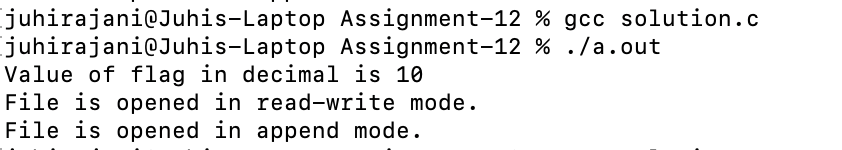
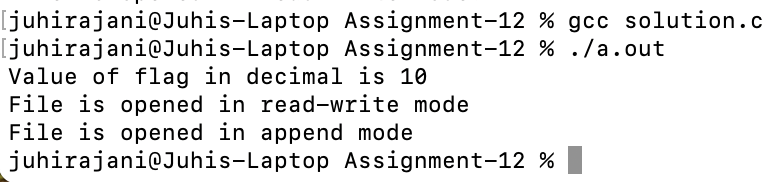
Finding file opening mode using fcntl

diff --git a/Assignment-12/solution.c b/Assignment-12/solution.c
@@ -6,19 +6,19 @@
 
 void openingMode(int flags) {
     if (flags & O_RDONLY) {
-        printf("File is opened in read-only mode.\n");
+        printf("File is opened in read-only mode\n");
     }
     if (flags & O_WRONLY) {
-        printf("File is opened in write-only mode.\n");
+        printf("File is opened in write-only mode\n");
     }
     if (flags & O_RDWR) {
-        printf("File is opened in read-write mode.\n");
+        printf("File is opened in read-write mode\n");
     }
     if (flags & O_APPEND) {
-        printf("File is opened in append mode.\n");
+        printf("File is opened in append mode\n");
     }
     if (flags & O_CREAT) {
-        printf("File is opened with O_CREAT flag (create file if it does not exist).\n");
+        printf("File is opened(created) with O_CREAT flag\n");
     }
 }
 
@@ -26,7 +26,7 @@ int main() {
     
     const char *destFile = "sample.txt";
 
-    int fd = open(destFile, O_RDWR , 0644);
+    int fd = open(destFile, O_RDWR | O_CREAT | O_APPEND, 0644);
     if (fd == -1) {
         perror("open");
         return 1;
